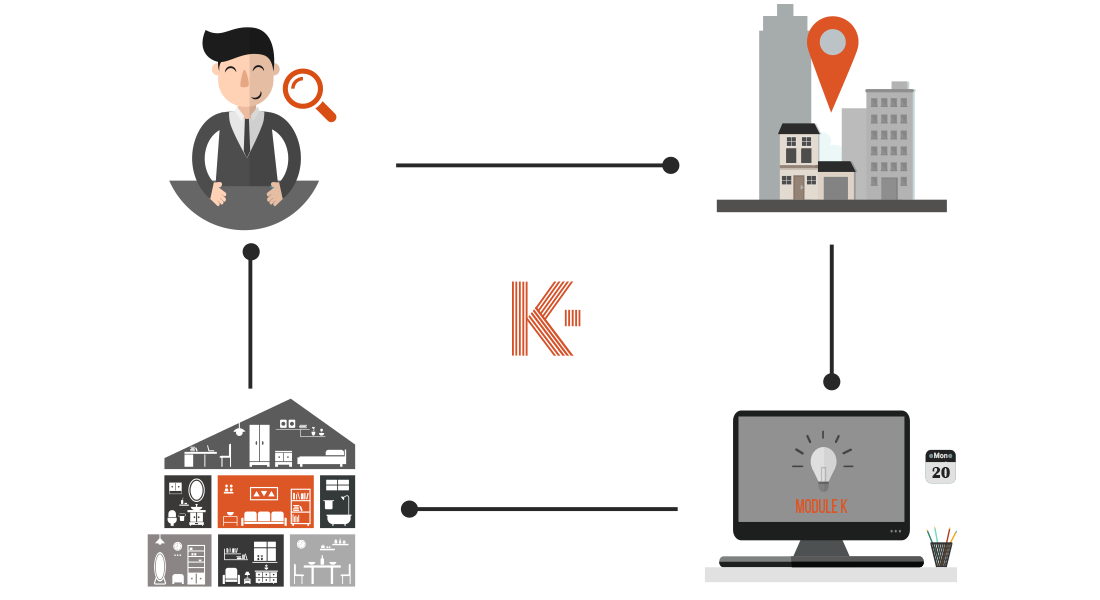
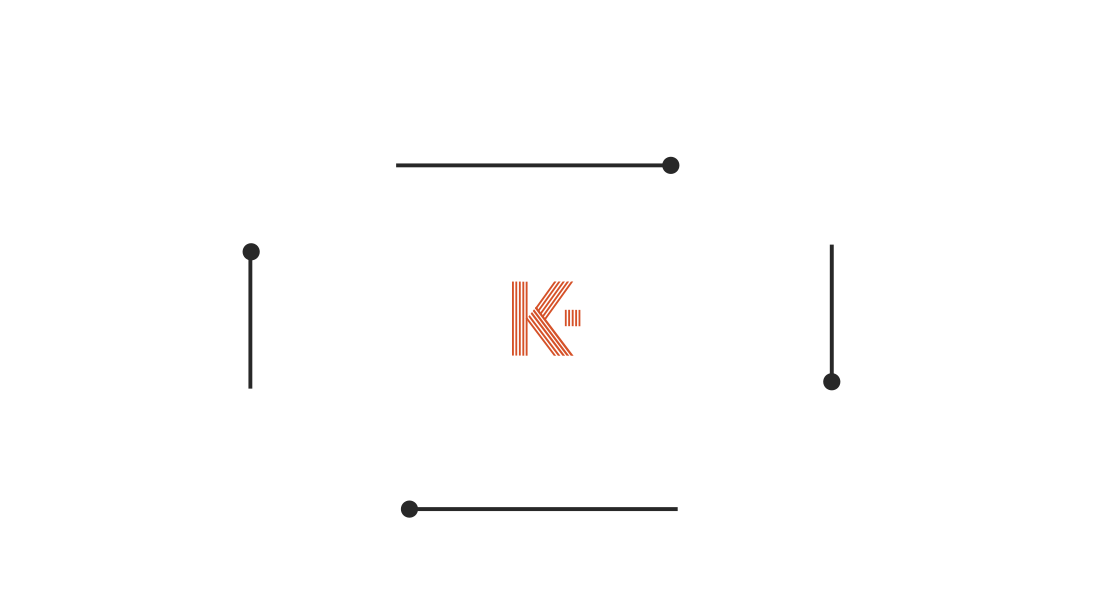
update new work flow

diff --git a/index-vn.html b/index-vn.html
@@ -344,11 +344,30 @@
           <div class="content green">
             <div class="img-content hidden-xs hidden-sm hidden-md">
               <img src="images/workflow_photo.png" height="600" width="1100" alt="" class="center-block img-responsive">
-              <div class="text-holder">
-                <p class="b1 text-center"><strong>Tìm hiểu phong cách, nhu cầu của khách hàng.<br> Tư vấn ý tưởng thiết kế.</strong></p>
-                <p class="b2 text-center"><strong>Tìm hiểu vị trí, đặc điểm.<br>Thu thập dữ liệu từ không gian thực tế.</strong></p>
-                <p class="b3 text-center"><strong>Lên ý tưởng - trao đổi, phát triển cùng khách hàng.<br> Chốt thiết kế.</strong></p>
-                <p class="b4 text-center"><strong>Thi công hoàn thiện.<br> Bàn giao sản phẩm.</strong></p>
+              <div class="workflow-a workflow-item">
+                <div class="row">
+                  <div class="col-lg-6"><p class="b1 text-center"><strong>Tìm hiểu phong cách, <br> nhu cầu của khách hàng.<br> Tư vấn ý tưởng thiết kế.</strong></p></div>
+                  <div class="col-lg-6"><span class="img"></span></div>
+                </div>
+
+              </div>
+              <div class="workflow-b workflow-item">
+                <div class="row">
+                  <div class="col-lg-6"><p class="b2 text-center"><strong>Tìm hiểu vị trí, đặc điểm.<br>Thu thập dữ liệu từ <br>không gian thực tế.</strong></p></div>
+                  <div class="col-lg-6"><span class="img"></span></div>
+                </div>
+              </div>
+               <div class="workflow-c workflow-item">
+                <div class="row">
+                  <div class="col-lg-6"><span class="img"></span></div>
+                  <div class="col-lg-6"><p class="b3 text-center"><strong>Lên ý tưởng - trao đổi, <br>phát triển cùng khách hàng.<br> Chốt thiết kế.</strong></p></div>
+                </div>
+              </div>
+              <div class="workflow-d workflow-item">
+                <div class="row">
+                  <div class="col-lg-6"><span class="img"></span></div>
+                  <div class="col-lg-6"><p class="b4 text-center"><strong>Thi công hoàn thiện.<br> Bàn giao sản phẩm.</strong></p></div>
+                </div>
               </div>
             </div>
 

diff --git a/css/style.css b/css/style.css
@@ -1942,11 +1942,35 @@ tbody td{
    	transition: all 0.3s ease-in-out;}
 
 .img-content .text-holder p { font-size: 15px; }
-.img-content .b1 { position: absolute; top: 90px; left: -50px; }
-.img-content .b2 { position: absolute; top: 90px; right: -50px; }
-.img-content .b3 { position: absolute; bottom: 90px; left: -70px; }
-.img-content .b4 { position: absolute; bottom: 90px; right: -70px; }
+/*.img-content .b1 { position: absolute; top: 90px; left: -13px; }*/
+/*.img-content .b2 { position: absolute; top: 90px; right: -13px; }
+.img-content .b3 { position: absolute; bottom: 60px; left: -25px; }
+.img-content .b4 { position: absolute; bottom: 90px; right: -10px; }*/
 
-
+.workflow-item { position: absolute; }
+.workflow-item .row{ position: relative; }
+.workflow-item .col-lg-6{ padding: 0; }
+.workflow-item .img{ width: 300px; height: 300px; background-size: contain; display: block; }
+.workflow-item p{ opacity: 0; }
+.workflow-a {  top: -28px; left: -94px; }
+	.workflow-a	.img { background-image: url("../images/workB1A.png"); }
+		.workflow-a:hover .img { background-image: url("../images/workB1.png"); }
+		.workflow-a:hover p { opacity: 1; }
+	.workflow-a	.b1 { top: 100px; left: 86px; position: relative; }
+.workflow-b { bottom: -28px; left: -52px; }
+	.workflow-b	.img { background-image: url("../images/workB4A.png"); }
+		.workflow-b:hover .img { background-image: url("../images/workB4.png"); }
+		.workflow-b:hover p { opacity: 1; }
+	.workflow-b	.b2 { top: 125px; left: 78px; position: relative; }
+.workflow-c { top: -28px; right: -27px; }
+	.workflow-c	.img { background-image: url("../images/workB2A.png"); }
+		.workflow-c:hover .img { background-image: url("../images/workB2.png"); }
+		.workflow-c:hover p { opacity: 1; }
+	.workflow-c	.b3 { top: 125px; right: 18px; position: relative; }
+.workflow-d { bottom: -38px; right: 16px; }
+	.workflow-d	.img { background-image: url("../images/workB3A.png"); }
+		.workflow-d:hover .img { background-image: url("../images/workB3.png"); }
+		.workflow-d:hover p { opacity: 1; }
+	.workflow-d	.b4 { top: 105px; right: -10px; position: relative; }
 
 
